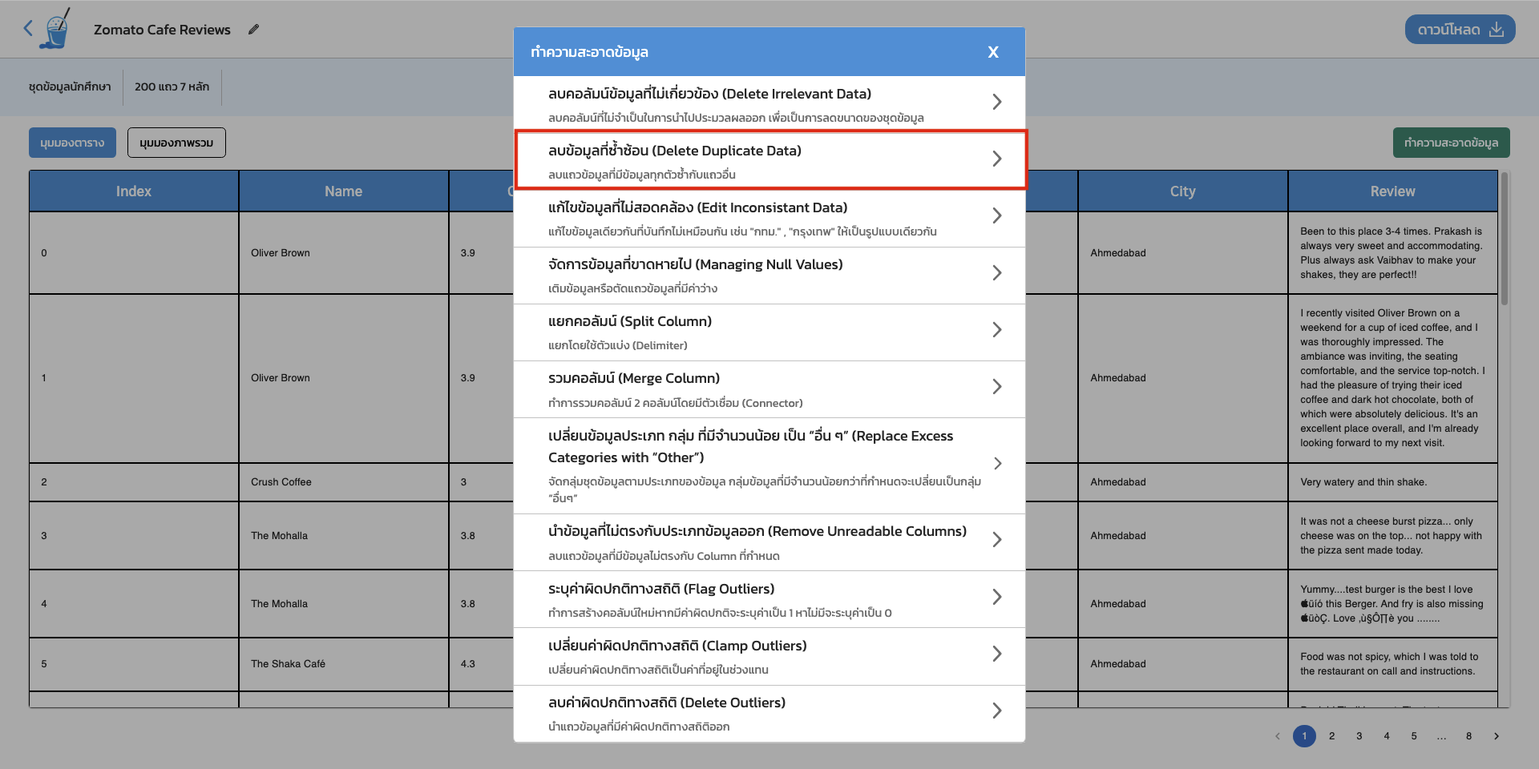
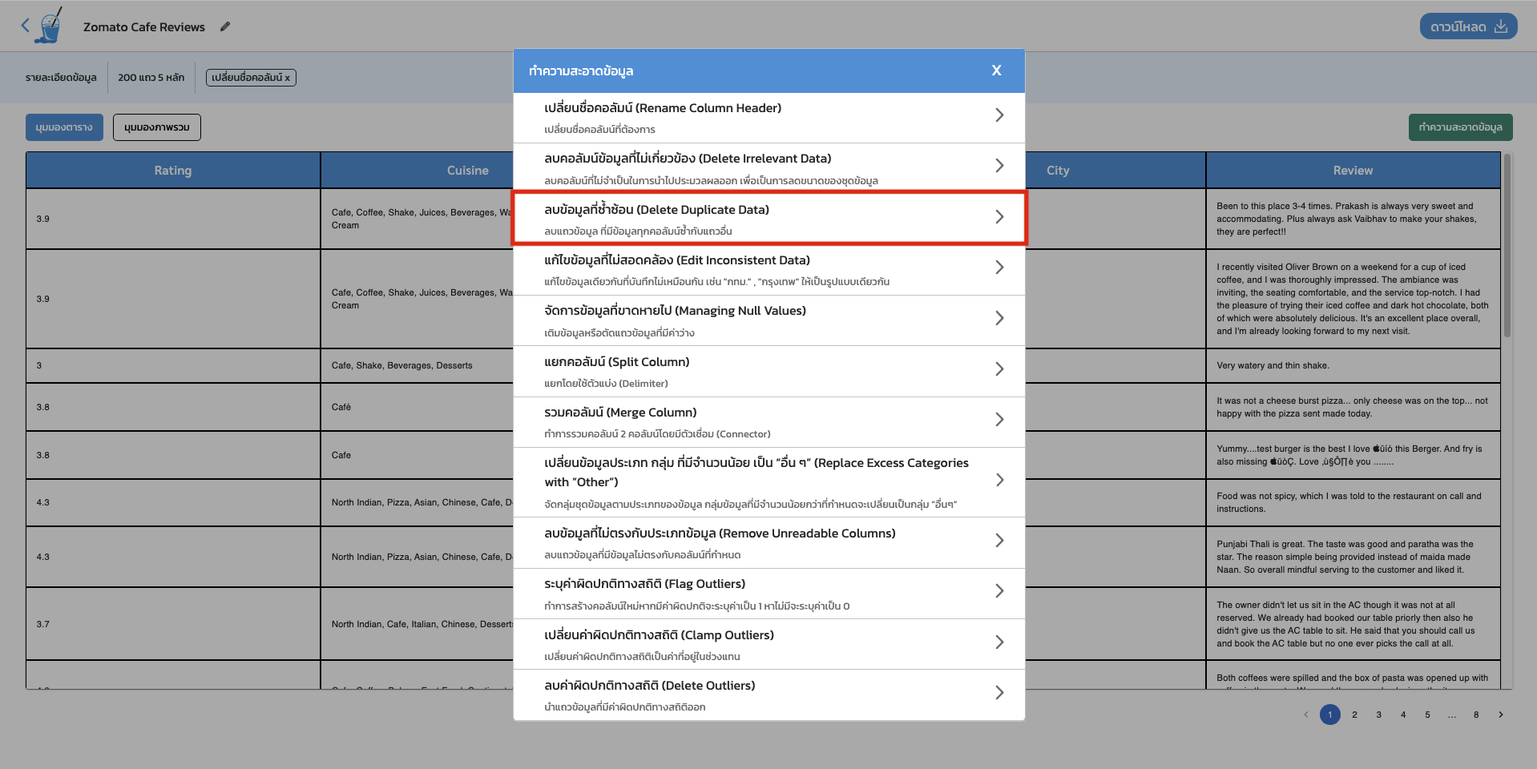
edit home, document, manual page

diff --git a/src/pages/document.jsx b/src/pages/document.jsx
@@ -2,9 +2,9 @@ import React, { useState, useEffect } from 'react'
 import Image from 'next/legacy/image'
 import { Navbar } from '../components/Navbar'
 import {
-    functionCleansing1, functionCleansing2, functionCleansing3, functionCleansing4, functionCleansing5, functionCleansing6, functionCleansing7, functionCleansing8, functionCleansing9, functionCleansing10, functionCleansing11,
+    functionCleansing1, functionCleansing2, functionCleansing3, functionCleansing4, functionCleansing5, functionCleansing6, functionCleansing7, functionCleansing8, functionCleansing9, functionCleansing10, functionCleansing11, functionCleansing12,
     selectColumn2, selectColumn3, selectColumn4, confirmCleansing2, navbarDetail, DeleteDuplicateData, confirmCleansing3, selectData, inputData, managingNullValues, managingNullValues1, inputdatafromuser, inputData2, inputData3,
-    flagOutliers, clampOutliers, inputdataAuto, confirmCleansing4
+    inputData4, flagOutliers, clampOutliers, inputdataAuto, confirmCleansing4, confirmCleansing5, selectColumn
 } from '@/assets'
 import Link from 'next/link'
 import { atomUserRole } from "@/atoms/atomUserRole";
@@ -29,7 +29,35 @@ const Document = () => {
             <div className='w-full flex flex-col items-center'>
                 <p className='text-[32px] text-textPrimary font-kanit mt-20'>ทฤษฎีการทำงานของฟังก์ชันทำความสะอาดข้อมูล</p>
                 <div className='w-[700px] flex flex-col mt-20 justify-around border-0'>
-                    <p className='text-textPrimary font-kanit text-[24px]'>ฟังก์ชันที่ 1 ลบคอลัมน์ข้อมูลที่ไม่เกี่ยวข้อง (Delete Irrelevant Data)</p>
+                    <p className='text-textPrimary font-kanit text-[24px]'>ฟังก์ชันที่ 1 เปลี่ยนชื่อคอลัมน์ (Rename Column Header)</p>
+                    <p className='text-textGray text-[16px] mt-5'>คือการเปลี่ยนชื่อคอลัมน์ของชุดข้อมูล</p>
+                    <p className='text-textGray text-[16px] mt-10'>ผู้ใช้งานควรใช้เมื่อ ต้องการเปลี่ยนชื่อคอลัมน์ของชุดข้อมูล โดยฟังก์ชันนี้สามารถใช้ได้กับข้อมูลทุกประเภท</p>
+                    <p className='text-textGray text-[16px] mt-10'><strong>วิธีการใช้งาน</strong></p>
+                    <div className='w-[700px] mt-5 flex flex-col justify-center border-0'>
+                        <p className='text-textGray text-[16px] mx-10'>1.	กดเลือกฟังก์ชัน เปลี่ยนชื่อคอลัมน์ (Rename Column Header)</p>
+                        <div class="rounded-lg shadow-xl dark:shadow-gray-900 mt-5">
+                            <Image src={functionCleansing12} width={700} height={350} objectFit='contain' alt="functionCleansing12" />
+                        </div>
+                    </div>
+                    <div className='w-[700px] mt-5 flex flex-col justify-center border-0'>
+                        <p className='text-textGray text-[16px] mx-10'>2.	เลือกคอลัมน์ที่ต้องการใช้ทำความสะอาดข้อมูลด้วยฟังก์ชันนี้ (ผู้ใช้งานสามารถเลือกได้เพียง 1 คอลัมน์) จากนั้นกดถัดไป</p>
+                        <div class="rounded-lg shadow-xl dark:shadow-gray-900 mt-5">
+                            <Image src={selectColumn4} width={700} height={420} objectFit='contain' alt="selectColumn4" />
+                        </div>
+                    </div>
+                    <div className='w-[700px] mt-5 flex flex-col justify-center border-0'>
+                        <p className='text-textGray text-[16px] mx-10'>3.	ผู้ใช้งานป้อนชื่อคอลัมน์ใหม่เพื่อเปลี่ยนข้อมูล จากนั้นกดยืนยัน</p>
+                        <div class="rounded-lg shadow-xl dark:shadow-gray-900 mt-5">
+                            <Image src={inputData4} width={700} height={220} objectFit='contain' alt="inputData4" />
+                        </div>
+                    </div>
+                    <div className='w-[700px] mt-5 flex flex-col justify-center border-0'>
+                        <p className='text-textGray text-[16px] mx-10'>4.	ตรวจสอบข้อมูลที่จะถูกเปลี่ยนแปลง จากนั้นกดปุ่มยืนยันเพื่อทำความสะอาดข้อมูล</p>
+                        <div class="rounded-lg shadow-xl dark:shadow-gray-900 mt-5">
+                            <Image src={confirmCleansing5} width={700} height={350} objectFit='contain' alt="confirmCleansing5" />
+                        </div>
+                    </div>
+                    <p className='text-textPrimary font-kanit text-[24px] mt-10'>ฟังก์ชันที่ 2 ลบคอลัมน์ข้อมูลที่ไม่เกี่ยวข้อง (Delete Irrelevant Data)</p>
                     <p className='text-textGray text-[16px] mt-5'>คือการลบคอลัมน์ที่ไม่จำเป็นในการนำไปประมวลผลออก เพื่อเป็นการลดขนาดของชุดข้อมูล</p>
                     <p className='text-textGray text-[16px] mt-10'>ผู้ใช้งานควรใช้เมื่อ ชุดข้อมูลมีคอลัมน์ที่ซ้ำซ้อน หรือมีคอลัมน์ที่เยอะเกินความจำเป็น เพื่อเป็นการลดขนาดของชุดข้อมูลทำให้ประหยัดทรัพยกรของเครื่องเมื่อนำชุดข้อมูลไปประมวลผล โดยฟังก์ชันนี้สามารถใช้ได้กับข้อมูลทุกประเภท</p>
                     <p className='text-textGray text-[16px] mt-10'><strong>วิธีการใช้งาน</strong></p>
@@ -64,7 +92,7 @@ const Document = () => {
                             <Image src={navbarDetail} width={700} height={400} objectFit='contain' alt="navbarDetail" />
                         </div>
                     </div>
-                    <p className='text-textPrimary font-kanit text-[24px] mt-10'>ฟังก์ชันที่ 2 ลบข้อมูลที่ซ้ำซ้อน (Delete Duplicate Data)</p>
+                    <p className='text-textPrimary font-kanit text-[24px] mt-10'>ฟังก์ชันที่ 3 ลบข้อมูลที่ซ้ำซ้อน (Delete Duplicate Data)</p>
                     <p className='text-textGray text-[16px] mt-5'>คือการลบแถวข้อมูล ที่มีข้อมูลทุกคอลัมน์ซ้ำกับแถวอื่น</p>
                     <p className='text-textGray text-[16px] mt-10'>ผู้ใช้งานควรใช้เมื่อ ชุดข้อมูลมีข้อมูลที่เหมือนกันในทุกคอลัมน์ เหมาะกับชุดข้อมูลที่เกิดการผิดพลาดในการบันทึกข้อมูลที่เหมือนกันมามากกว่าหนึ่งครั้ง ทั้งนี้ทั้งนั้น ฟังก์ชันทำความสะอาดนี้ไม่เหมาะกับข้อมูลที่ผ่านการ oversampling หรือการเพิ่มข้อมูลเพื่อให้ชุดข้อมูลเกิดความสมดุล เพราะจะทำให้ข้อมูลที่ถูกสร้างขึ้นจากการสุ่มตัวอย่างเดิมถูกลบออกไปด้วย</p>
                     <p className='text-textGray text-[16px] mt-10'><strong>วิธีการใช้งาน</strong></p>
@@ -87,7 +115,7 @@ const Document = () => {
                         </div>
                         <p className='text-textGray text-[16px] mt-5'>ผู้ใช้งานจะสังเกตเห็นว่าการลบข้อมูลที่ซ้ำซ้อนนั้นจะถูกไฮไลท์ด้วยสีแดง เนื่องจากเป็นการลบข้อมูลทั้งแถว</p>
                     </div>
-                    <p className='text-textPrimary font-kanit text-[24px] mt-10'>ฟังก์ชันที่ 3 แก้ไขข้อมูลที่ไม่สอดคล้อง (Edit Inconsistent Data)</p>
+                    <p className='text-textPrimary font-kanit text-[24px] mt-10'>ฟังก์ชันที่ 4 แก้ไขข้อมูลที่ไม่สอดคล้อง (Edit Inconsistent Data)</p>
                     <p className='text-textGray text-[16px] mt-5'>คือการแก้ไขข้อมูลเดียวกันที่บันทึกไม่เหมือนกัน เช่น &quot;กทม.&quot; , &quot;กรุงเทพ&quot; ให้เป็นรูปแบบเดียวกัน</p>
                     <p className='text-textGray text-[16px] mt-10'>ผู้ใช้งานควรใช้เมื่อ มีข้อมูลประเภท string โดยชุดข้อมูลผ่านการจัดเก็บจากหลากหลายบุคคล หลายหน่วยงาน ซึ่งอาจไม่ได้มีการกำหนดมาตรฐานในการบันทึก หรือรวมไปถึงความผิดพลาดจากผู้กรอกข้อมูล ซึ่งทำให้ข้อมูลที่ควรจะเป็นข้อมูลเดียวกันนั้น มีการแสดงผลที่ต่างกัน ฟังก์ชันนี้จึงเหมาะกับการเปลี่ยนข้อมูลที่มีความหมายเดียวกัน แต่รูปแบบต่างกัน ให้กลายเป็นรูปแบบเดียวกัน เพื่อไม่ให้การประมวลผลข้อมูลเกิดความผิดพลาด</p>
                     <p className='text-textGray text-[16px] mt-10'><strong>วิธีการใช้งาน</strong></p>
@@ -122,7 +150,7 @@ const Document = () => {
                         </div>
                         <p className='text-textGray text-[16px] mt-5'>ผู้ใช้งานจะสังเกตเห็นว่าการแก้ไขข้อมูลที่ไม่สอดคล้องนั้นจะถูกไฮไลท์ด้วยสีเหลือง เนื่องจากเป็นการเปลี่ยนแปลงข้อมูลบางแถวหรือบางคอลัมน์เท่านั้น</p>
                     </div>
-                    <p className='text-textPrimary font-kanit text-[24px] mt-10'>ฟังก์ชันที่ 4 จัดการข้อมูลที่ขาดหายไป (Managing Null Values) </p>
+                    <p className='text-textPrimary font-kanit text-[24px] mt-10'>ฟังก์ชันที่ 5 จัดการข้อมูลที่ขาดหายไป (Managing Null Values) </p>
                     <p className='text-textGray text-[16px] mt-5'>คือการเติมข้อมูลหรือตัดแถวข้อมูลที่มีค่าว่าง</p>
                     <p className='text-textGray text-[16px] mt-10'>ผู้ใช้งานควรใช้เมื่อ ชุดข้อมูลมีข้อมูลที่ไม่ครบถ้วนสมบูรณ์ ในบางครั้งเมื่อนำข้อมูลที่มีค่าว่างไปประมวลผลในโมเดล Machine Learning (การเรียนรู้ของเครื่อง) อาจส่งผลให้เกิดความผิดพลาดขึ้นได้ โดยในฟังก์ชันนี้ผู้ใช้สามารถจัดการกับข้อมูลที่ขาดหายไปได้ 4 แบบคือ 1.) เติมค่าว่างด้วยค่าเฉลี่ย 2.) เติมค่าว่างด้วยค่ามัธยฐาน 3.) เติมข้อมูลที่กำหนดเอง 4.) ตัดข้อมูลที่มีค่าว่าง</p>
                     <p className='text-textGray text-[16px] mt-10'><strong>วิธีการใช้งาน</strong></p>
@@ -161,7 +189,7 @@ const Document = () => {
                         </div>
                     </div>
                     <p className='text-textGray text-[16px] mx-10 mt-5'>4.	ตรวจสอบข้อมูลที่จะถูกเปลี่ยนแปลง จากนั้นกดปุ่มยืนยันเพื่อทำความสะอาดข้อมูล</p>
-                    <p className='text-textPrimary font-kanit text-[24px] mt-10'>ฟังก์ชันที่ 5 แยกคอลัมน์ (Split Column)</p>
+                    <p className='text-textPrimary font-kanit text-[24px] mt-10'>ฟังก์ชันที่ 6 แยกคอลัมน์ (Split Column)</p>
                     <p className='text-textGray text-[16px] mt-5'>คือแยกโดยใช้ตัวแบ่ง (Delimiter)</p>
                     <p className='text-textGray text-[16px] mt-10'>ผู้ใช้งานควรใช้เมื่อ ชุดข้อมูลมีคอลัมน์ที่สามารถแยกรายละเอียดออกมาได้ เช่น หากเป็นข้อมูล วันเดือนปี ผู้ใช้งานสามารถแยกออกมาเป็น 3 คอลัมน์ เป็น วัน เดือน ปี ได้ ทำให้ผู้ใช้งานสามารถมองเห็นรายละเอียดเชิงลึกของข้อมูลได้มากยิ่งขึ้น ฟังก์ชันนี้เหมาะสำหรับข้อมูลประเภท string หากนำไปใช้กับข้อมูลประเภท number นั้น ก็สามารถแปลงได้ แต่ทว่าเว็บแอพลิเคชันจะทำการเปลี่ยนประเภทข้อมูลของแถวข้อมูลนั้นเป็น string ก่อน แล้วจึงแยกคอลัมน์</p>
                     <p className='text-textGray text-[16px] mt-10'><strong>วิธีการใช้งาน</strong></p>
@@ -184,7 +212,7 @@ const Document = () => {
                         </div>
                     </div>
                     <p className='text-textGray text-[16px] mx-10 mt-5'>4.	ตรวจสอบข้อมูลที่จะถูกเปลี่ยนแปลง จากนั้นกดปุ่มยืนยันเพื่อทำความสะอาดข้อมูล</p>
-                    <p className='text-textPrimary font-kanit text-[24px] mt-10'>ฟังก์ชันที่ 6 รวมคอลัมน์ (Merge Column)</p>
+                    <p className='text-textPrimary font-kanit text-[24px] mt-10'>ฟังก์ชันที่ 7 รวมคอลัมน์ (Merge Column)</p>
                     <p className='text-textGray text-[16px] mt-5'>คือทำการรวมคอลัมน์ 2 คอลัมน์โดยมีตัวเชื่อม (Connector)</p>
                     <p className='text-textGray text-[16px] mt-10'>ผู้ใช้งานควรใช้เมื่อ มีข้อมูลที่สามารถรวมกันได้ เช่น ชื่อ และ นามสกุล เนื่องจากเป็นข้อมูลที่มีความเป็นเอกลักษณ์อยู่แล้ว และอาจจะไม่ได้ข้อมูลเชิงลึกจากการวิเคราะห์มากนัก ซึ่งเป็นการลดขนาดของชุดข้อมูลทำให้ประหยัดทรัพยากรในการประมวลผลอีกด้วย โดยคอลัมน์ที่ผ่านการรวมคอลัมน์จะมีประเภทเป็น string</p>
                     <p className='text-textGray text-[16px] mt-10'><strong>วิธีการใช้งาน</strong></p>
@@ -207,7 +235,7 @@ const Document = () => {
                         </div>
                     </div>
                     <p className='text-textGray text-[16px] mx-10 mt-5'>4.	ตรวจสอบข้อมูลที่จะถูกเปลี่ยนแปลง จากนั้นกดปุ่มยืนยันเพื่อทำความสะอาดข้อมูล</p>
-                    <p className='text-textPrimary font-kanit text-[24px] mt-10'>ฟังก์ชันที่ 7 เปลี่ยนข้อมูลประเภท กลุ่ม ที่มีจำนวนน้อย เป็น “อื่น ๆ” (Replace Excess Categories with “Other”)</p>
+                    <p className='text-textPrimary font-kanit text-[24px] mt-10'>ฟังก์ชันที่ 8 เปลี่ยนข้อมูลประเภท กลุ่ม ที่มีจำนวนน้อย เป็น “อื่น ๆ” (Replace Excess Categories with “Other”)</p>
                     <p className='text-textGray text-[16px] mt-5'>คือการจัดกลุ่มชุดข้อมูลตามประเภทของข้อมูล กลุ่มข้อมูลที่มีจำนวนน้อยกว่าที่กำหนดจะเปลี่ยนเป็นกลุ่ม “อื่นๆ” </p>
                     <p className='text-textGray text-[16px] mt-10'>ผู้ใช้งานควรใช้เมื่อ มีข้อมูลประเภท Categories (หมวดหมู่) ที่มีเยอะเกินไป หากนำข้อมูลนี้ไปแสดงผลอาจทำให้ไม่สามารถเห็นรายละเอียดที่ชัดเจน ฟังก์ชันนี้จึงเป็นการรวมหมวดหมู่ข้อมูลที่มีจำนวนน้อย ๆ ให้แสดงรวมกันเป็นคำว่า ”อื่น ๆ” เพื่อให้ผู้ใช้สามารถเข้าใจการแสดงผลข้อมูลได้ง่ายขึ้น ฟังก์ชันนี้หากนำไปใช้กับข้อมูลประเภทตัวเลข จะไม่เกิดการเปลี่ยนแปลงใด ๆ </p>
                     <p className='text-textGray text-[16px] mt-10'><strong>วิธีการใช้งาน</strong></p>
@@ -229,7 +257,7 @@ const Document = () => {
                             <Image src={confirmCleansing4} width={700} height={380} objectFit='contain' alt="confirmCleansing4" />
                         </div>
                     </div>
-                    <p className='text-textPrimary font-kanit text-[24px] mt-10'>ฟังก์ชันที่ 8 ลบข้อมูลที่ไม่ตรงกับประเภทข้อมูล (Remove Unreadable Columns)</p>
+                    <p className='text-textPrimary font-kanit text-[24px] mt-10'>ฟังก์ชันที่ 9 ลบข้อมูลที่ไม่ตรงกับประเภทข้อมูล (Remove Unreadable Columns)</p>
                     <p className='text-textGray text-[16px] mt-5'>คือการลบแถวข้อมูลที่มีข้อมูลไม่ตรงกับคอลัมน์ที่กำหนด</p>
                     <p className='text-textGray text-[16px] mt-10'>ผู้ใช้งานควรใช้เมื่อ ชุดข้อมูลมีการจัดเก็บตัวอักษรในช่องที่ควรจะเก็บแค่ตัวเลข ฟังก์ชันนี้จะทำการลบข้อมูลที่ไม่ใช่ตัวเลขทิ้ง และเปลี่ยนประเภทของคอลัมน์ข้อมูลเป็นตัวเลข (int หรือ float) ตามความเหมาะสม</p>
                     <p className='text-textGray text-[16px] mt-10'><strong>วิธีการใช้งาน</strong></p>
@@ -246,7 +274,7 @@ const Document = () => {
                         </div>
                     </div>
                     <p className='text-textGray text-[16px] mx-10 mt-5'>3.	ตรวจสอบข้อมูลที่จะถูกเปลี่ยนแปลง จากนั้นกดปุ่มยืนยันเพื่อทำความสะอาดข้อมูล</p>
-                    <p className='text-textPrimary font-kanit text-[24px] mt-10'>ฟังก์ชันที่ 9 ระบุค่าผิดปกติทางสถิติ (Flag Outliers)</p>
+                    <p className='text-textPrimary font-kanit text-[24px] mt-10'>ฟังก์ชันที่ 10 ระบุค่าผิดปกติทางสถิติ (Flag Outliers)</p>
                     <p className='text-textGray text-[16px] mt-5'>คือการสร้างคอลัมน์ใหม่หากมีค่าผิดปกติจะระบุค่าเป็น 1 หาไม่มีจะระบุค่าเป็น 0</p>
                     <p className='text-textGray text-[16px] mt-10'>ผู้ใช้งานควรใช้เมื่อมีชุดข้อมูลที่มีคอลัมน์เป็นค่าตัวเลข การใช้ฟังก์ชันนี้เป็นการชี้จุดให้ผู้ใช้เห็นว่า ข้อมูลแถวใดมีความผิดปกติทางสถิติ และผู้ใช้สามารถตรวจดูความผิดปกติของข้อมูลเหล่านั้นได้ ทั้งนี้ทั้งนั้นฟังก์ชันนี้หากใช้กับข้อมูลที่ไม่ใช่ตัวเลข จะไม่เกิดการเปลี่ยนแปลงใด ๆ เกิดขึ้นทั้งสิ้น โดยในคำนวณหาค่าข้อมูลที่มีค่าผิดปกติทางสถิตินั้น เว็บแอปพลิเคชันนี้จะใช้วิธีการหาแบบ Interquartile Range (ค่าพิสัยระหว่างควอไทล์) โดยค่าผิดปกติที่มีค่าน้อยกว่า 1.5 คูณด้วยค่า IQR และค่าผิดปกติที่มีค่ามากกว่า 1.5 คูณด้วยค่า IQR จะจัดเป็นค่าที่มีความผิดปกติทางสถิติ</p>
                     <p className='text-textGray text-[16px] mt-10'><strong>วิธีการใช้งาน</strong></p>
@@ -269,7 +297,7 @@ const Document = () => {
                         </div>
                     </div>
                     <p className='text-textGray text-[16px] mx-10 mt-5'>4.	ตรวจสอบข้อมูลที่จะถูกเปลี่ยนแปลง จากนั้นกดปุ่มยืนยันเพื่อทำความสะอาดข้อมูล</p>
-                    <p className='text-textPrimary font-kanit text-[24px] mt-10'>ฟังก์ชันที่ 10 เปลี่ยนค่าผิดปกติทางสถิติ (Clamp Outliers)</p>
+                    <p className='text-textPrimary font-kanit text-[24px] mt-10'>ฟังก์ชันที่ 11 เปลี่ยนค่าผิดปกติทางสถิติ (Clamp Outliers)</p>
                     <p className='text-textGray text-[16px] mt-5'>คือการเปลี่ยนค่าผิดปกติทางสถิติเป็นค่าที่อยู่ในช่วงแทน</p>
                     <p className='text-textGray text-[16px] mt-10'>ผู้ใช้งานควรใช้เมื่อมีชุดข้อมูลที่มีคอลัมน์เป็นค่าตัวเลข การใช้ฟังก์ชันนี้เป็นการปรับค่าผิดปกติที่อาจจะส่งผลต่อการประมวลผลเมื่อนำข้อมูลไปใช้เข้าโมเดลการเรียนรู้ของเครื่อง (Machine Learning) การปรับค่าผิดปกติจะแบ่งออกเป็น 2 รูปแบบตามที่ผู้ใช้เลือก ได้แก่ 1.) เปลี่ยนข้อมูลเป็นค่าที่มากที่สุดหรือน้อยที่สุดที่ไม่ผิดปกติทางสถิติ และ 2.) เปลี่ยนข้อมูลที่ผิดปกติทางสถิติทั้งหมดเป็นค่าที่ผู้ใช้ต้องการ ทั้งนี้ทั้งนั้นฟังก์ชันนี้หากใช้กับข้อมูลที่ไม่ใช่ตัวเลข จะไม่เกิดการเปลี่ยนแปลงใด ๆ เกิดขึ้นทั้งสิ้น โดยในคำนวณหาค่าข้อมูลที่มีค่าผิดปกติทางสถิตินั้น เว็บแอปพลิเคชันนี้จะใช้วิธีการหาแบบ Interquartile Range (ค่าพิสัยระหว่างควอไทล์) โดยค่าผิดปกติที่มีค่าน้อยกว่า 1.5 คูณด้วยค่า IQR และค่าผิดปกติที่มีค่ามากกว่า 1.5 คูณด้วยค่า IQR จะจัดเป็นค่าที่มีความผิดปกติทางสถิติ</p>
                     <p className='text-textGray text-[16px] mt-10'><strong>วิธีการใช้งาน</strong></p>
@@ -300,7 +328,7 @@ const Document = () => {
                         </div>
                     </div>
                     <p className='text-textGray text-[16px] mx-10 mt-5'>4.	ตรวจสอบข้อมูลที่จะถูกเปลี่ยนแปลง จากนั้นกดปุ่มยืนยันเพื่อทำความสะอาดข้อมูล</p>
-                    <p className='text-textPrimary font-kanit text-[24px] mt-10'>ฟังก์ชันที่ 11 ลบค่าผิดปกติทางสถิติ (Delete Outliers)</p>
+                    <p className='text-textPrimary font-kanit text-[24px] mt-10'>ฟังก์ชันที่ 12 ลบค่าผิดปกติทางสถิติ (Delete Outliers)</p>
                     <p className='text-textGray text-[16px] mt-5'>คือการนำแถวข้อมูลที่มีค่าผิดปกติทางสถิติออก</p>
                     <p className='text-textGray text-[16px] mt-10'>ผู้ใช้งานควรใช้เมื่อมีชุดข้อมูลที่มีคอลัมน์เป็นตัวเลข และมีค่าผิดปกติทางสถิติ การใช้ฟังก์ชันนี้จะเป็นการลบแถวข้อมูลที่มีค่าผิดปกติทิ้ง เนื่องจากค่าผิดปกติของข้อมูลอาจส่งผลกระทบต่อการประมวลผลข้อมูลเมื่อนำข้อมูลเหล่านี้ไปใช้ในการเรียนรู้ของเครื่อง (Machine Learning) ทั้งนี้ทั้งนั้นฟังก์ชันนี้หากใช้กับข้อมูลที่ไม่ใช่ตัวเลข จะไม่เกิดการเปลี่ยนแปลงใด ๆ เกิดขึ้นทั้งสิ้น โดยในการค่าข้อมูลที่มีค่าผิดปกติทางสถิตินั้น เว็บแอปพลิเคชันนี้จะใช้วิธีการหาแบบ Interquartile Range (ค่าพิสัยระหว่างควอไทล์) โดยค่าผิดปกติที่มีค่าน้อยกว่า 1.5 คูณด้วยค่า IQR และค่าผิดปกติที่มีค่ามากกว่า 1.5 คูณด้วยค่า IQR จะจัดเป็นค่าที่มีความผิดปกติทางสถิติ</p>
                     <p className='text-textGray text-[16px] mt-10'><strong>วิธีการใช้งาน</strong></p>

diff --git a/src/pages/manual.jsx b/src/pages/manual.jsx
@@ -137,7 +137,7 @@ const Manual = () => {
                         <div class="rounded-lg shadow-xl dark:shadow-gray-900 mt-5">
                             <Image src={functionCleansing} width={700} height={350} objectFit='contain' alt="functionCleansing" />
                         </div>
-                        <p className='text-textGray text-[16px] py-6'> เมื่อผู้ใช้งานกดปุ่ม <strong>ทำความสะอาดข้อมูล</strong> จะมี Pop up ฟังก์ชันทำความสะอาดข้อมูลทั้ง 11 ฟังก์ชัน ขึ้นมาให้ผู้ใช้งานได้เลือกว่าต้องการใช้ฟังก์ชันทำความสะอาดข้อมูลใดกับชุดข้อมูลนี้ โดยสามารถเลือกใช้ได้ทีละ 1 ฟังก์ชัน</p>
+                        <p className='text-textGray text-[16px] py-6'> เมื่อผู้ใช้งานกดปุ่ม <strong>ทำความสะอาดข้อมูล</strong> จะมี Pop up ฟังก์ชันทำความสะอาดข้อมูลทั้ง 12 ฟังก์ชัน ขึ้นมาให้ผู้ใช้งานได้เลือกว่าต้องการใช้ฟังก์ชันทำความสะอาดข้อมูลใดกับชุดข้อมูลนี้ โดยสามารถเลือกใช้ได้ทีละ 1 ฟังก์ชัน</p>
                         <div class="rounded-lg shadow-xl dark:shadow-gray-900">
                             <Image src={selectColumn} width={700} height={380} objectFit='contain' alt="selectColumn" />
                         </div>

diff --git a/src/pages/index.jsx b/src/pages/index.jsx
@@ -58,7 +58,7 @@ export default function Home() {
               <div class="rounded-lg shadow-xl dark:shadow-gray-900 mt-5">
                 <Image src={functionCleansing} width={700} height={350} objectFit='contain' alt="functionCleansing" />
               </div>
-              <p className='text-textGray text-[16px] mt-6'> มีฟังก์ชันทำความสะอาดข้อมูลทั้ง 11 ฟังก์ชัน ให้ผู้ใช้งานได้เลือกใช้ให้เหมาะสมกับข้อมูลของผู้ใช้งาน ไม่ว่าจะเป็น <strong>ลบคอลัมน์ข้อมูลที่ไม่เกี่ยวข้อง (Delete Irrelevant Data), ลบข้อมูลที่ซ้ำซ้อน (Delete Duplicate Data), แก้ไขข้อมูลที่ผิดปกติ (Edit inconsistent value)</strong> ฯลฯ เป็นต้น</p>
+              <p className='text-textGray text-[16px] mt-6'> มีฟังก์ชันทำความสะอาดข้อมูลทั้ง 12 ฟังก์ชัน ให้ผู้ใช้งานได้เลือกใช้ให้เหมาะสมกับข้อมูลของผู้ใช้งาน ไม่ว่าจะเป็น <strong>ลบคอลัมน์ข้อมูลที่ไม่เกี่ยวข้อง (Delete Irrelevant Data), ลบข้อมูลที่ซ้ำซ้อน (Delete Duplicate Data), แก้ไขข้อมูลที่ผิดปกติ (Edit inconsistent value)</strong> ฯลฯ เป็นต้น</p>
             </div>
 
             <p className='text-textPrimary font-kanit text-[24px] mt-5'>ดาวน์โหลดไฟล์</p>

diff --git a/src/assets/index.js b/src/assets/index.js
@@ -40,17 +40,20 @@ import functionCleansing8 from './functionCleansing8.png'
 import functionCleansing9 from './functionCleansing9.png'
 import functionCleansing10 from './functionCleansing10.png'
 import functionCleansing11 from './functionCleansing11.png'
+import functionCleansing12 from './functionCleansing12.png'
 import selectColumn2 from './SelectColumn2.png'
 import selectColumn3 from './SelectColumn3.png'
 import selectColumn4 from './SelectColumn4.png'
 import confirmCleansing2 from './confirmCleansing2.png'
 import confirmCleansing3 from './confirmCleansing3.png'
 import confirmCleansing4 from './confirmCleansing4.png'
+import confirmCleansing5 from './confirmCleansing5.png'
 import DeleteDuplicateData from './DeleteDuplicateData.png'
 import selectData from './selectData.png'
 import inputData from './inputData.png'
 import inputData2 from './inputData2.png'
 import inputData3 from './inputData3.png'
+import inputData4 from './inputData4.png'
 import managingNullValues from './managingNullValues.png'
 import managingNullValues1 from './managingNullValues1.png'
 import inputdatafromuser from './inputdatafromuser.png'
@@ -101,6 +104,7 @@ export{
     functionCleansing9,
     functionCleansing10,
     functionCleansing11,
+    functionCleansing12,
     selectColumn2,
     selectColumn3,
     selectColumn4,
@@ -108,10 +112,12 @@ export{
     DeleteDuplicateData,
     confirmCleansing3,
     confirmCleansing4,
+    confirmCleansing5,
     selectData,
     inputData,
     inputData2,
     inputData3,
+    inputData4,
     managingNullValues,
     managingNullValues1,
     inputdatafromuser,
